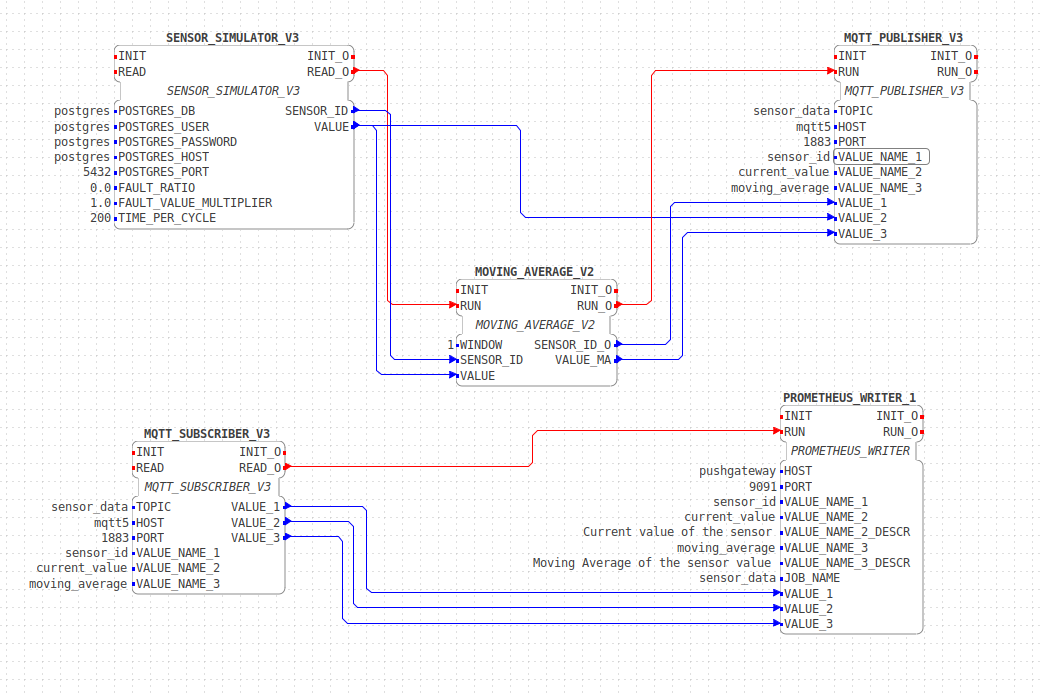
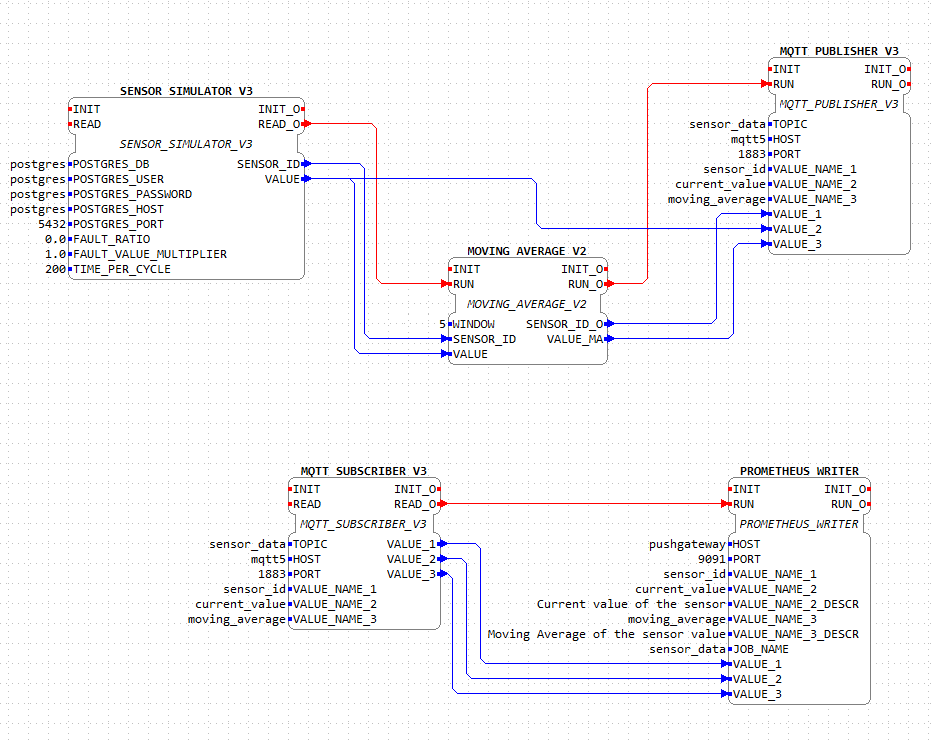
docs: finalized development_guide with updated printscreens

diff --git a/docs/development/development_guide.md b/docs/development/development_guide.md
@@ -51,21 +51,21 @@ In this section you can find a comprehensive guide on how to fully setup a produ
 
 PgAdmin is a web interface for `PostgreSQL`. It will be essential to test your queries and to see the data in the database before using it in the `Grafana` dashboard.
 
-To access the `pgAdmin` interface, go to `localhost:4321` and login with the following credentials:
+To access the `pgAdmin` interface, go to [localhost:4321](http://127.0.0.1:4321) and login with the following default credentials:
 
 ```markdown
-**Email**: postgres@pg.pg
-**Password**: postgres
+Email: postgres@pg.pg
+Password: postgres
 ```
 
-Then, add a new server with the following credentials:
+Then, add a new server with the following default credentials:
 
 ```markdown
-**Host name/address**: postgres _(Under the docker network the hosts take the name you give them in the docker-compose file, instead of localhost)_
-**Port**: 5432
-**Maintenance database**: postgres
-**Username**: postgres
-**Password**: postgres
+Host name/address: postgres
+Port: 5432
+Maintenance database: postgres
+Username: postgres
+Password: postgres
 ```
 
 ![gif](../images/pgAdmin.gif)
@@ -84,16 +84,16 @@ Note: If you are having problems (for example, have postgres also installed on y
 
 ### Prometheus
 
-To access the `Prometheus` interface, go to `localhost:9090`.
+To access the `Prometheus` interface, go to [localhost:9090](http://127.0.0.1:9090).
 
 To verify if the data is being scraped from the `Pushgateway` server, go to the `Status > Targets` tab and check if the `pushgateway` is up and running. If it is, it should show `UP` under the `State` column.
 
 On the `Expression` tab, you can enter a query to verify the data that is being scraped. For example, you can enter the following queries:
 
 ```sql
-sensor_value
+current_value
 -- or
-sensor_value{sensor_id="1"}
+current_value{sensor_id="1"}
 -- or
 moving_average{sensor_id="1"}
 ```
@@ -102,7 +102,7 @@ The first one will show all the sensors data, while the second one will only sho
 
 ### Grafana
 
-To access the `Grafana` interface, go to `localhost:3000`. Login with the following credentials:
+To access the `Grafana` interface, go to [localhost:3000](http://127.0.0.1:3000). Login with the following default credentials:
 
 ```markdown
 **Username**: admin
@@ -126,9 +126,13 @@ If you want to create your own dashboard, you can use the Grafana's built-in too
 - [Variable Panel](https://grafana.com/grafana/plugins/volkovlabs-variable-panel/);
 - [Canvas Panel](https://grafana.com/docs/grafana/latest/panels-visualizations/visualizations/canvas/).
 
-To install any plugin, you need to access the Grafana's terminal through docker and run the install command for the plugin you want, following by a restart of the Grafana server.
+To install any plugin, you need to access the Grafana's terminal through docker and run the install command for the plugin you want, following by a restart of the Grafana server in Docker. If you want to the plugins above to be added to the docker-compose file, please add a new line under `grafana/environment` with the following format:
 
-Also, [here](https://play.grafana.org/dashboards) you can find some examples.
+```markdown
+GF_INSTALL_PLUGINS: <plugin_name>@<plugin_version>,<plugin_name>@<plugin_version>,...
+```
+
+Also, [here](https://play.grafana.org/dashboards) you can find some examples of existing Grafana's dashboards.
 
 ### MQTT Broker
 
@@ -138,42 +142,12 @@ The `Mosquitto MQTT Broker` is running under `localhost:1883`, with the service 
 
 To open the 4DIAC-IDE, go to the folder where you installed it and run the `4diac-ide.exe` file.
 
-In order to run the sensor simulator, you have to run DINASORE on your system. For that, you need to run the following commands:
+The Dinasore instances, which will be used by the 4DIAC-IDE, are running under the ports `61499` and `4840` for the first instance and `61500` and `4841` for the second instance, for the DIAC and OPC UA ports, respectively.
 
-```sh
-# Move to the dinasore's root folder
-cd src/dinasore
-
-# Default values:
-# <ip_address>=localhost, <port_diac>=61499,
-# <port_opc>=4840, <log_level>=ERROR,
-# <number_samples>=5, <seconds_per_sample>=20
-python core/main.py -a <ip_address> \
-                    -p <port_diac> \
-                    -u <port_opc> \
-                    -l <log_level> \
-                    -m <number_samples> <seconds_per_sample>
-
-```
-
-**NOTE**: For Mac and Linux users, run with the flag -B to avoid the creation of cache folders (conflicts with the FBs folders): `python -B core/main.py`
-
-For this project, we need to run two instances of DINASORE, one for the FORTE_PC and another for the FORTE_PC_1. For that, you need to run the following commands:
-
-```sh
-# On the first terminal
-
-python core/main.py
-
-# And on another terminal
-
-python core/main.py -p 61500 -u 4841
-```
-
-- Now, you can open the 4DIAC-IDE and import the [function blocks folder](./resources/function_blocks/). For that, you can follow the next steps:
+Now, you can open the 4DIAC-IDE and import the [function blocks folder](./resources/function_blocks/). For that, you can follow the next steps:
 
   1. Open the 4DIAC-IDE
-  2. Go to File -> New -> New System -> *Name the project as *MES\*\*\* -> Finish
+  2. Go to File -> New -> New System -> *Name the project as **MES*** -> Finish
   3. On the System Explorer, left click to open the **MES** -> Right click on the **Type Library** -> Import -> General -> File System -> Next -> Browse -> Select the [function blocks folder](./resources/function_blocks/) -> Finish
   4. On the System Explorer, open **System Configuration** (**1**). Now add 2 FORTE_PC (**2**) and 1 Ethernet (**3**). Link the Forte PCs to the Ethernet (**4**). Update the port of the second FORTE_PC to 61500 (**5**).
 
@@ -182,7 +156,7 @@ python core/main.py -p 61500 -u 4841
   5. On the System Explorer, open **MESApp**
   6. From the palette on the right side, drag the following function blocks:
 
-     - **SENSOR_SIMULATOR_V2**
+     - **SENSOR_SIMULATOR_V3**
      - **MOVING_AVERAGE_V2**
      - **MQTT_PUBLISHER_V3**
      - **MQTT_SUBSCRIBER_V3**
@@ -192,30 +166,39 @@ python core/main.py -p 61500 -u 4841
 
   7. Now, proceed to link the function blocks and fill the parameters with:
 
-     - **SENSOR_SIMULATOR_V2**: OFFSET = 0. You can twist this value to emulate, for example, a sensor that can overheat (Offset = 10) or a sensor that is working above the desired temperature (Offset = -10).
+     - **SENSOR_SIMULATOR_V3**: 
+       - POSTGRES_DB = *postgres*. This is the name of the database.
+       - POSTGRES_USER = *postgres*. This is the username of the database.
+       - POSTGRES_PASSWORD = *postgres*. This is the password of the database.
+       - POSTGRES_HOST = *postgres*. This is the IP address of the PostgreSQL database on your machine.
+       - POSTGRES_PORT = *5432*. This is the port of the PostgreSQL database on your machine.
+       - FAULT_RATIO = *0*. This is the failure ratio of the sensors. You can change this value to see how the failure ratio affects the data.
+       - FAULT_VALUE_MULTIPLIER = *1*. This is the multiplier of the fault value. You can change this value to see how the fault value multiplier affects the data. > 1 means that the fault value will be higher than the normal value, < 1 means that the fault value will be lower than the normal value.
+       - TIME_PER_CYCLE = *200*. This is the time, in seconds, that the sensor simulator will take for each cycle. You can change this value to see how the time per cycle affects the data.
+
      - **MOVING_AVERAGE_V2**: WINDOW = 5. This value is the number of samples that the moving average will use to calculate the average value. You can change this value to see how the moving average changes.
      - **MQTT_PUBLISHER_V3**:
-       - TOPIC = "sensor_data". This is the topic that the publisher will use to publish sensor data to.
-       - HOST = "localhost". This is the IP address of the MQTT Broker on your machine.
-       - PORT = 1883. This is the port of the MQTT Broker on your machine.
-       - VALUE_NAME_1 = "sensor_id". This is the id of the sensor.
-       - VALUE_NAME_2 = "current_value". This is the current value of the sensor.
-       - VALUE_NAME_3 = "moving_average". This is the moving average of the sensor.
+       - TOPIC = *sensor_data*. This is the topic that the publisher will use to publish sensor data to.
+       - HOST = *mqtt5*. This is the IP address of the MQTT Broker on your machine.
+       - PORT = *1883*. This is the port of the MQTT Broker on your machine.
+       - VALUE_NAME_1 = *sensor_id*. This is the id of the sensor.
+       - VALUE_NAME_2 = *current_value*. This is the current value of the sensor.
+       - VALUE_NAME_3 = *moving_average*. This is the moving average of the sensor.
      - **MQTT_SUBSCRIBER_V3**:
-       - TOPIC = "sensor_data". This is the topic that the subscriber will use to subscribe to.
-       - HOST = "localhost". This is the IP address of the MQTT Broker on your machine.
-       - PORT = 1883. This is the port of the MQTT Broker on your machine.
-       - VALUE_NAME_1 = "sensor_id". This is the id of the sensor.
-       - VALUE_NAME_2 = "current_value". This is the current value of the sensor.
-       - VALUE_NAME_3 = "moving_average". This is the moving average of the sensor.
+       - TOPIC = *sensor_data*. This is the topic that the subscriber will use to subscribe to.
+       - HOST = *mqtt5*. This is the IP address of the MQTT Broker on your machine.
+       - PORT = *1883* This is the port of the MQTT Broker on your machine.
+       - VALUE_NAME_1 = *sensor_id*. This is the id of the sensor.
+       - VALUE_NAME_2 = *current_value*. This is the current value of the sensor.
+       - VALUE_NAME_3 = *moving_average*. This is the moving average of the sensor.
      - **PROMETHEUS_WRITER**:
-       - HOST = "localhost". This is the IP address of the Prometheus Gateway running on docker.
-       - PORT = 9091. This is the port of the Prometheus Gateway running on docker.
-       - VALUE_NAME_1 = "sensor_id". This is the id of the sensor.
-       - VALUE_NAME_2 = "current_value". This is the current value of the sensor.
-       - VALUE_NAME_2_DESCR = "Current value of the sensor". This is the description of the current value of the sensor.
-       - VALUE_NAME_3 = "moving_average". This is the moving average of the sensor.
-       - VALUE_NAME_3_DESCR = "Moving average of the sensor". This is the description of the moving average of the sensor.
+       - HOST = *pushgateway*. This is the IP address of the Prometheus Gateway running on docker.
+       - PORT = *9091*. This is the port of the Prometheus Gateway running on docker.
+       - VALUE_NAME_1 = *sensor_id*. This is the id of the sensor.
+       - VALUE_NAME_2 = *current_value*. This is the current value of the sensor.
+       - VALUE_NAME_2_DESCR = *Current value of the sensor*. This is the description of the current value of the sensor.
+       - VALUE_NAME_3 = *moving_average*. This is the moving average of the sensor.
+       - VALUE_NAME_3_DESCR = *Moving average of the sensor*. This is the description of the moving average of the sensor.
        - JOB_NAME = "sensor_data". This is the job name of the sensor data.
 
      ![image](../images/Screenshot_3.png)
@@ -224,7 +207,7 @@ python core/main.py -p 61500 -u 4841
 
   8. Link the function blocks to the corresponding FORTE_PC:
 
-     - **SENSOR_SIMULATOR_V2**, **MOVING_AVERAGE_V2**, **MQTT_PUBLISHER_V3**: Right click on the function block -> Select "Map to .." -> Select "FORTE_PC" -> Select "EMB_RES"
+     - **SENSOR_SIMULATOR_V3**, **MOVING_AVERAGE_V2**, **MQTT_PUBLISHER_V3**: Right click on the function block -> Select "Map to .." -> Select "FORTE_PC" -> Select "EMB_RES"
      - **MQTT_SUBSCRIBER_V3**, **PROMETHEUS_WRITER**: Right click on the function block -> Select "Map to .." -> Select "FORTE_PC_1" -> Select "EMB_RES"
 
      ![image](../images/Screenshot_4.png)
